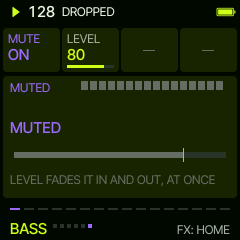
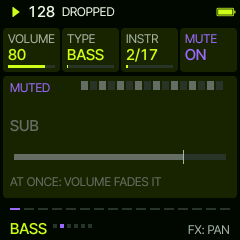
FX's first page: VOLUME TYPE INSTR MUTE (SOUND and MIX in one)
Claude-Session: https://claude.ai/code/session_01VgesZgNNDFiPGvKyDTZVUK

diff --git a/firmware/src/sa_ui.c b/firmware/src/sa_ui.c
@@ -195,19 +195,17 @@ static int sv_pages(const sa_ui *u, int *p)
 {
     int n = 0;
     p[n++] = SVP_HOME;
+    p[n++] = SVP_MIX;                              /* (first: VOLUME, TYPE, INSTR, MUTE) */
     if (u->view == SV_V_DRUMS) {
         p[n++] = SVP_KIT;
         p[n++] = SVP_MOD;
-        p[n++] = SVP_MIX;
         return n;
     }
-    p[n++] = SVP_SOUND;
     if (u->view == SV_V_CHORD) p[n++] = SVP_ARP;
     p[n++] = SVP_PAN;
     p[n++] = SVP_3D;
     p[n++] = SVP_GATE;
     p[n++] = SVP_MOD;
-    p[n++] = SVP_MIX;
     return n;
 }
 static int sv_page_now(const sa_ui *u)
@@ -340,7 +338,7 @@ static void sv_cards_of(sa_ui *u, sv_card *c)
     case SVP_HOME:
         if (u->view == SV_V_DRUMS) {
             sv_card_txt(&c[0], "DRUM", sv_layer_name(u, l), -1, false);
-            sv_card_num(&c[1], "LEVEL", v->level, 0, 100);
+            sv_card_num(&c[1], "VOLUME", v->level, 0, 100);
             sv_card_num(&c[2], "ACCENT", v->env, 0, 100);
             sv_fmt_int(t, v->cut);
             sv_cat(t, " %", sizeof t);
@@ -352,25 +350,6 @@ static void sv_cards_of(sa_ui *u, sv_card *c)
             sv_card_num(&c[3], "ENV", v->env, 0, 100);
         }
         break;
-    case SVP_SOUND: {
-        static const char *const ROLE[SAS_ROLES] = {"BASS", "KEYS", "PADS", "LEADS", "FX"};
-        int role = sas_of(lc->sound)->role % SAS_ROLES;
-        sv_card_txt(&c[0], "TYPE", ROLE[role], role * 1000 / (SAS_ROLES - 1), false);
-        {
-            uint8_t list[SAS_NSOUNDS > 0 ? SAS_NSOUNDS : 1];
-            int n = sv_sounds_of(role, list), at = 0;
-            char a[8];
-            for (int k = 0; k < n; ++k) if (list[k] == lc->sound) at = k;
-            sv_fmt_int(t, at + 1);
-            sv_cat(t, "/", sizeof t);
-            sv_fmt_int(a, n);
-            sv_cat(t, a, sizeof t);
-            sv_card_txt(&c[1], "SOUND", t, n > 1 ? at * 1000 / (n - 1) : -1, false);   /* (its name on the panel) */
-        }
-        sv_card_txt(&c[2], "PUMP", v->nopump ? "OFF" : "ON", -1, false);
-        sv_card_off(&c[3]);
-        break;
-    }
     case SVP_ARP: {
         static const char *const SHORT[SA_AR_MODES] = {"OFF", "UP", "DOWN", "UP-DN", "DN-UP", "CONVRG", "DIVRG",
                                                        "RANDOM", "THUMB", "PINKY", "STRUM"};
@@ -440,11 +419,26 @@ static void sv_cards_of(sa_ui *u, sv_card *c)
             sv_card_txt(&c[i], lb, t, -1, e->mod[i].type != lc->mod[i].type || e->mod[i].val != lc->mod[i].val);
         }
         break;
-    case SVP_MIX:
-        sv_card_txt(&c[0], "MUTE", v->mute ? "ON" : "OFF", -1, false);
-        sv_card_num(&c[1], "LEVEL", v->level, 0, 100);
-        sv_card_off(&c[2]);
-        sv_card_off(&c[3]);
+    case SVP_MIX:                                  /* VOLUME TYPE INSTR MUTE (a drum: VOLUME, MUTE) */
+        sv_card_num(&c[0], "VOLUME", v->level, 0, 100);
+        if (u->view == SV_V_DRUMS) {
+            sv_card_off(&c[1]);
+            sv_card_off(&c[2]);
+        } else {
+            static const char *const ROLE[SAS_ROLES] = {"BASS", "KEYS", "PADS", "LEADS", "FX"};
+            int role = sas_of(lc->sound)->role % SAS_ROLES;
+            uint8_t list[SAS_NSOUNDS > 0 ? SAS_NSOUNDS : 1];
+            int n = sv_sounds_of(role, list), at = 0;
+            char a[8];
+            sv_card_txt(&c[1], "TYPE", ROLE[role], role * 1000 / (SAS_ROLES - 1), false);
+            for (int k = 0; k < n; ++k) if (list[k] == lc->sound) at = k;
+            sv_fmt_int(t, at + 1);
+            sv_cat(t, "/", sizeof t);
+            sv_fmt_int(a, n);
+            sv_cat(t, a, sizeof t);
+            sv_card_txt(&c[2], "INSTR", t, n > 1 ? at * 1000 / (n - 1) : -1, false);   /* (its name on the panel) */
+        }
+        sv_card_txt(&c[3], "MUTE", v->mute ? "ON" : "OFF", -1, false);
         break;
     case SVP_KIT:
         sv_card_txt(&c[0], "KIT", sa_kit_name(s->kit), s->kit * 1000 / (SA_KITS - 1), false);
@@ -976,21 +970,13 @@ static void sv_panel_3d(sa_ui *u)
 static void sv_panel_mix(sa_ui *u)
 {
     const sa_live *v = &u->g->s.live[sv_clampi(u->layer, 0, SA_LAYERS - 1)];
-    cv_text_on(10, 42, &AF_M, v->mute ? "MUTED" : "PLAYING", v->mute ? T_ACCENT : T_THEME, T_SURF);
+    cv_free_text(10, 40, &AF_M, u->view == SV_V_DRUMS ? sv_layer_name(u, u->layer) : sas_of(sv_live(u)->sound)->name,
+                 v->mute ? T_DIM : T_THEME, T_SURF, 160);
     int32_t w = 212, f = v->level * w / 100;
-    cv_rect(14, 76, w, 6, sv_well());
-    cv_rect(14, 76, f > 0 ? f : 1, 6, v->mute ? T_DIM : T_THEME);
-    cv_rect(14 + 80 * w / 100, 72, 1, 14, T_MID);
-    sv_label(10, 96, "LEVEL FADES IT IN AND OUT, AT ONCE", T_DIM);
-}
-
-static void sv_panel_sound(sa_ui *u)
-{
-    const sa_code *lc = sv_live(u);
-    static const char *const ROLE[SAS_ROLES] = {"BASS", "KEYS", "PADS", "LEADS", "FX"};
-    sv_label(10, 40, ROLE[sas_of(lc->sound)->role % SAS_ROLES], T_MID);
-    cv_free_text(10, 56, &AF_M, sas_of(lc->sound)->name, T_THEME, T_SURF, 220);
-    sv_label(10, 92, "AT ONCE, AS YOU TURN", T_DIM);
+    cv_rect(14, 78, w, 6, sv_well());
+    cv_rect(14, 78, f > 0 ? f : 1, 6, v->mute ? T_DIM : T_THEME);
+    cv_rect(14 + 80 * w / 100, 74, 1, 14, T_MID);
+    sv_label(10, 98, "AT ONCE: VOLUME FADES IT", T_DIM);
 }
 
 static void sv_panel_synth_home(sa_ui *u)
@@ -998,7 +984,7 @@ static void sv_panel_synth_home(sa_ui *u)
     const sa_code *lc = sv_live(u);
     cv_free_text(10, 42, &AF_M, sas_of(lc->sound)->name, T_THEME, T_SURF, 220);
     sv_label(10, 72, "ALGORITHM: THE PATTERN", T_MID);
-    sv_label(10, 88, "FX: SOUND AND MORE   REC: STEPS", T_DIM);
+    sv_label(10, 88, "FX: VOLUME, SOUND AND MORE", T_DIM);
 }
 
 /* DRUMS: the drum KNOB 1 picked, large: which of how many, its pattern, its 16 steps (what plays, or what SEQ drops) */
@@ -1051,7 +1037,6 @@ static void sv_panel_layer(sa_ui *u)
     sv_layer_top(u, u->layer);
     switch (pg) {
     case SVP_HOME: sv_panel_synth_home(u); break;
-    case SVP_SOUND: sv_panel_sound(u); break;
     case SVP_ARP: sv_panel_arp(u); break;
     case SVP_PAN: sv_panel_pan(u); break;
     case SVP_3D: sv_panel_3d(u); break;
@@ -1335,10 +1320,6 @@ void sv_knob(sa_ui *u, int k, int d)
             SV_ADJ(*f, 2, 0, 100);
         }
         break;
-    case SVP_SOUND:
-        if (i < 2) sv_sound_turn(u, i, d);
-        else if (i == 2) v->nopump = (uint8_t)(d < 0);
-        break;
     case SVP_ARP:
         if (i == 0) e->amode = (uint8_t)sv_clampi(e->amode + d, 0, SA_AR_MODES - 1);
         else if (i == 1) e->arate = (uint8_t)sv_clampi(e->arate + d, 0, SA_RATES - 1);
@@ -1376,8 +1357,9 @@ void sv_knob(sa_ui *u, int k, int d)
         break;
     }
     case SVP_MIX:
-        if (i == 0) sa_mute(g, l, d > 0);
-        else if (i == 1) SV_ADJ(v->level, 2, 0, 100);
+        if (i == 0) SV_ADJ(v->level, 2, 0, 100);
+        else if (i == 3) sa_mute(g, l, d > 0);
+        else if (u->view != SV_V_DRUMS) sv_sound_turn(u, i - 1, d);   /* TYPE, INSTR: at once */
         break;
     case SVP_KIT:
         if (i == 0) s->kit = (uint8_t)sv_clampi(s->kit + d, 0, SA_KITS - 1);

diff --git a/tests/sa_ui_test.c b/tests/sa_ui_test.c
@@ -237,12 +237,17 @@ int main(int argc, char **argv)
     CHECK(g.s.code[SA_L_BASS].pat == g.ed[SA_L_BASS].pat && !sa_pending(&g), "dropped on the bar line");
     /* FX through BASS's pages and back to its home; another layer opens on its home */
     press(SV_B_FX);
-    CHECK(sv_page_now(&ui) == SVP_SOUND, "FX: SOUND");
-    shot("06_bass_sound");
+    CHECK(sv_page_now(&ui) == SVP_MIX, "FX: the first page, VOLUME TYPE INSTR MUTE");
     int snd = g.s.code[SA_L_BASS].sound;
-    sv_knob(&ui, SV_K2, 1);
+    sv_knob(&ui, SV_K3, 1);
     CHECK(g.s.code[SA_L_BASS].sound != snd && g.ed[SA_L_BASS].sound == g.s.code[SA_L_BASS].sound && !sa_pending(&g),
-          "SOUND: at once, nothing waits");
+          "INSTR: at once, nothing waits");
+    sv_knob(&ui, SV_K4, 1);
+    CHECK(g.s.live[SA_L_BASS].mute, "MUTE at once");
+    shot("06_bass_mix");
+    sv_knob(&ui, SV_K4, -1);
+    sv_knob(&ui, SV_K1, -10);
+    CHECK(g.s.live[SA_L_BASS].level == 60, "VOLUME (%d)", g.s.live[SA_L_BASS].level);
     press(SV_B_FX);
     CHECK(sv_page_now(&ui) == SVP_PAN, "FX: PAN (no ARP on BASS)");
     shot("07_bass_pan");
@@ -252,8 +257,7 @@ int main(int argc, char **argv)
     sv_knob(&ui, SV_K2, 4);
     sv_knob(&ui, SV_K3, 10);
     CHECK(g.s.d3[SA_L_BASS].on && g.s.d3[SA_L_BASS].az == 27 && g.s.d3[SA_L_BASS].el == 20 && g.s.d3[SA_L_BASS].dist == 50,
-          "3D: ANGLE HEIGHT DISTANCE, on (%d %d %d %d)", g.s.d3[SA_L_BASS].on, g.s.d3[SA_L_BASS].az,
-          g.s.d3[SA_L_BASS].el, g.s.d3[SA_L_BASS].dist);
+          "3D: ANGLE HEIGHT DISTANCE, on");
     run_ms(50);
     CHECK(g.pan_now[SA_L_BASS] > 30, "3D: behind on the right pans right (%d)", g.pan_now[SA_L_BASS]);
     shot("07b_bass_3d");
@@ -269,14 +273,6 @@ int main(int argc, char **argv)
     shot("08_bass_mod");
     press(SV_B_SEQ);
     bars(1);
-    press(SV_B_FX);
-    CHECK(sv_page_now(&ui) == SVP_MIX, "FX: MIX");
-    sv_knob(&ui, SV_K1, 1);
-    CHECK(g.s.live[SA_L_BASS].mute, "MIX: MUTE at once");
-    shot("09_bass_mix");
-    sv_knob(&ui, SV_K1, -1);
-    sv_knob(&ui, SV_K2, -10);
-    CHECK(g.s.live[SA_L_BASS].level == 60, "MIX: LEVEL fades (%d)", g.s.live[SA_L_BASS].level);
     press(SV_B_FX);
     CHECK(ui.fx == 0, "FX past the last page: home");
     press(SV_B_FX);

diff --git a/docs/MANUAL.md b/docs/MANUAL.md
@@ -47,23 +47,21 @@ LEAD lead lines and the bass lines). FX turns through its pages:
 
 | Page | KNOB 1 | KNOB 2 | KNOB 3 | KNOB 4 | |
 | --- | --- | --- | --- | --- | --- |
-| SOUND | TYPE (BASS KEYS PADS LEADS FX) | SOUND | PUMP ON / OFF | | at once |
+| MIX (the first) | VOLUME (fades it in and out) | TYPE (BASS KEYS PADS LEADS FX) | INSTR (the sound) | MUTE | at once |
 | ARP (CHORD only) | MODE (OFF, UP, DOWN, UP-DOWN, DOWN-UP, CONVERGE, DIVERGE, RANDOM, THUMB, PINKY, STRUM) | RATE | RANGE | GATE | waits for SEQ |
 | PAN | MODE (FIXED, SWEEP, PING-PONG, RANDOM) | PAN | WIDTH | RATE (SWEEP) | at once |
 | 3D | ANGLE (around you) | HEIGHT | DIST | 3D ON / OFF | at once |
 | GATE | a ready gate (or OFF) | DEPTH | WIDTH | SMOOTH | waits for SEQ |
 | MOD | MOD 1 | MOD 2 | MOD 3 | MOD 4 | waits for SEQ |
-| MIX | MUTE | LEVEL (fades it in and out) | | | at once |
 
 <p align="center">
-<img src="screens/sound.png" alt="SOUND" width="200">
+<img src="screens/mix.png" alt="MIX" width="200">
 <img src="screens/arp.png" alt="ARP" width="200">
 <img src="screens/pan.png" alt="PAN" width="200">
 </p>
 <p align="center">
 <img src="screens/gate.png" alt="GATE" width="200">
 <img src="screens/mod.png" alt="MOD" width="200">
-<img src="screens/mix.png" alt="MIX" width="200">
 </p>
 
 <p align="center">
@@ -104,14 +102,14 @@ pattern the layer's own (MY STEPS); like a pattern, the steps wait for SEQ, and 
 
 DRUMS shows the drum KNOB 1 picked, large: which of how many, its pattern and its 16 steps (HOME shows them all). The
 home page: **DRUM** (which drum; the last
-one, **+ ADD**, adds one), **LEVEL**, **ACCENT** (how hard the accented steps hit against the rest; 50: as written)
+one, **+ ADD**, adds one), **VOLUME**, **ACCENT** (how hard the accented steps hit against the rest; 50: as written)
 and **CHANCE** (how likely each hit plays: 100 % always, lower and it drops out at random). ALGORITHM turns the drum's
 pattern: OFF, the patterns, and left of OFF, REMOVE. On + ADD it picks the drum (KICK SNARE CLAP HAT OPEN HAT RIDE
 CRASH RIM TOM LOW TOM CONGA COWBELL CLAVE SHAKER); SEQ drops it in. With REC the 16 lowest keys are the drum's steps;
 the keys above play it.
 
-FX: **KIT** (KIT, TUNE, TONE, DECAY: the whole kit, every drum plays on it), **MOD** (the drum's modifiers) and
-**MIX** (MUTE, LEVEL). The kits: TECH, HOUSE, DEEP, HARD, BOOM, TIGHT, AFRO, DUSTY, CLASSIC, all synthesised.
+FX: **MIX** (VOLUME, MUTE), **KIT** (KIT, TUNE, TONE, DECAY: the whole kit, every drum plays on it) and **MOD**
+(the drum's modifiers). The kits: TECH, HOUSE, DEEP, HARD, BOOM, TIGHT, AFRO, DUSTY, CLASSIC, all synthesised.
 
 ## The modifiers
 

diff --git a/docs/RELEASE.md b/docs/RELEASE.md
@@ -1,7 +1,7 @@
 Sardine 0.7: live club mixing for the FM-1.
 
 - Four layers, always there, each on or OFF: LEAD, CHORD, BASS and DRUMS. PRESETS goes from one to the next, FX
-  through a layer's pages (SOUND, ARP on CHORD, PAN, 3D, GATE, MOD, MIX; DRUMS: KIT, MOD, MIX), HOME back to them all
+  through a layer's pages (MIX: VOLUME TYPE INSTR MUTE, ARP on CHORD, PAN, 3D, GATE, MOD; DRUMS: MIX, KIT, MOD), HOME back to them all
 - SELECT is the tempo, ALGORITHM the pattern; SEQ drops what waits on the one; REC records steps on the keys
 - DRUMS: each drum's LEVEL, ACCENT and CHANCE; the kit's TUNE, TONE and DECAY on its KIT page
 - 3D: a synth layer placed around you for headphones (angle, height, distance), drawn on a circle
